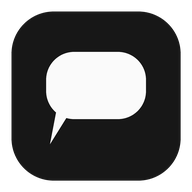
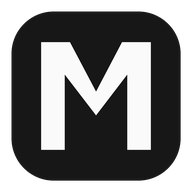
refactor: rename the app to MChat, and give it an M for a mark
The name is now MChat, in both the places a user sees it (the browser tab,
the home-screen icon, the manifest, the API title) and the places an operator
sees it (the offline bundle, the launcher, the installer, the startup
banner). The bundle is mchat-linux-x86_64.tar.gz and the launcher is mchat,
so `mchat` is the command.

The mark is an M, and it is drawn as a polygon rather than typeset from a
font. A font would make the icon depend on which fonts happened to be
installed on the machine that generated it, and the output would differ
between them; a path is the same everywhere, and it is the shape itself
rather than a rendering of it. The tile keeps the app's own two colours --
the header colour and the header-ink colour -- and there is still a maskable
variant for launchers that crop to an arbitrary shape.

A rename is easy to half-do: the titles get updated and the manifest does
not, or the launcher is renamed and the installer still looks for the old
one. Nothing crashes when that happens -- the build succeeds, the tests
pass, and the app is simply called two different things in two different
places. So the name is pinned in tests/test_app_name.py: every page title,
the manifest, the tab title, the FastAPI title, the startup banner, the
bundle, the launcher, the installer's symlink, and a sweep of the whole
source tree for the old name.

9 tests, each verified by re-injecting the old name in its place: 9/9
[…]

Changed region(s): [[0.1875, 0.2188, 0.8125, 0.7812]]

diff --git a/app/static/app.js b/app/static/app.js
@@ -36,7 +36,7 @@
   // sent to the server and the decision survives only as long as this tab
   // plus the one localStorage key below.
   let wantNotifications = false;
-  const BASE_TITLE = 'Chat room \u2014 Minimal Chat';
+  const BASE_TITLE = 'Chat room \u2014 MChat';
   // conversation key -> {button, badge, label}, so a badge update never
   // rebuilds the list and never steals focus from someone tabbing through it.
   let convRows = Object.create(null);

diff --git a/app/static/style.css b/app/static/style.css
@@ -1,5 +1,5 @@
 /* ==========================================================================
-   Minimal Chat — shadcn-style design system, zero dependencies.
+   MChat — shadcn-style design system, zero dependencies.
 
    The look follows shadcn/ui: a token layer plus component classes, with no
    framework and no build step. shadcn itself is React + Tailwind source code,

diff --git a/app/static/admin.html b/app/static/admin.html
@@ -3,7 +3,7 @@
 <head>
 <meta charset="UTF-8">
 <meta name="viewport" content="width=device-width, initial-scale=1.0">
-<title>Admin panel — Minimal Chat</title>
+<title>Admin panel — MChat</title>
 <link rel="manifest" href="/static/manifest.webmanifest">
 <meta name="theme-color" content="#171717">
 <meta name="apple-mobile-web-app-capable" content="yes">

diff --git a/app/static/chat.html b/app/static/chat.html
@@ -3,7 +3,7 @@
 <head>
 <meta charset="UTF-8">
 <meta name="viewport" content="width=device-width, initial-scale=1.0">
-<title>Chat room — Minimal Chat</title>
+<title>Chat room — MChat</title>
 <link rel="manifest" href="/static/manifest.webmanifest">
 <meta name="theme-color" content="#171717">
 <meta name="apple-mobile-web-app-capable" content="yes">

diff --git a/app/static/register.html b/app/static/register.html
@@ -3,7 +3,7 @@
 <head>
 <meta charset="UTF-8">
 <meta name="viewport" content="width=device-width, initial-scale=1.0">
-<title>Register — Minimal Chat</title>
+<title>Register — MChat</title>
 <link rel="manifest" href="/static/manifest.webmanifest">
 <meta name="theme-color" content="#171717">
 <meta name="apple-mobile-web-app-capable" content="yes">

diff --git a/app/static/login.html b/app/static/login.html
@@ -3,7 +3,7 @@
 <head>
 <meta charset="UTF-8">
 <meta name="viewport" content="width=device-width, initial-scale=1.0">
-<title>Login — Minimal Chat</title>
+<title>Login — MChat</title>
 <link rel="manifest" href="/static/manifest.webmanifest">
 <meta name="theme-color" content="#171717">
 <meta name="apple-mobile-web-app-capable" content="yes">

diff --git a/app/static/sw.js b/app/static/sw.js
@@ -1,4 +1,4 @@
-/* Minimal Chat service worker -- deliberately almost empty.
+/* MChat service worker -- deliberately almost empty.
  *
  * Its only job is to make the app installable: a registered service worker with
  * a fetch handler is what Chrome requires before it will offer "Install", and

diff --git a/tests/test_app_name.py b/tests/test_app_name.py
@@ -1,0 +1,161 @@
+"""The app has one name, and it is MChat.
+
+A rename is the kind of change that is easy to half-do: the page titles get
+updated and the manifest does not, or the launcher is renamed and the
+installer still looks for the old one. Nothing crashes when that happens --
+the build succeeds, the tests pass, and the app is simply called two
+different things in two different places.
+
+So the name is pinned here, in the places a user or an operator would see
+it: the browser tab, the home-screen icon, the FastAPI title, the offline
+bundle, and the launcher the installer links.
+"""
+import re
+import unittest
+from pathlib import Path
+
+ROOT = Path(__file__).resolve().parent.parent
+STATIC = ROOT / "app" / "static"
+
+# The old name, in the spellings it appeared in. If one of these comes back,
+# the rename was only half-done.
+#
+# "MinimalChat" is matched with a boundary, because one place is not the
+# app's name: MinimalChat-AUDIT/ is the directory the security-review notes
+# live in, it has that name on disk, and it is a working folder rather than
+# a brand.
+OLD_NAMES = ("Minimal Chat", "minimal chat", "chat-app",
+             "Chat app running at")
+OLD_CAMEL = re.compile(r"MinimalChat(?!-AUDIT)")
+
+
+class DisplayNameTests(unittest.TestCase):
+    """What a user sees."""
+
+    def test_the_manifest_is_named_mchat(self):
+        import json
+
+        manifest = json.loads(
+            (STATIC / "manifest.webmanifest").read_text(encoding="utf-8"))
+        self.assertEqual("MChat", manifest.get("name"),
+                         "the home-screen icon is labelled with the manifest's "
+                         f"name, which is {manifest.get('name')!r}")
+        self.assertTrue(manifest.get("short_name"),
+                        "the manifest has no short name, so the home-screen "
+                        "label would be the full one")
+
+    def test_every_page_title_carries_the_name(self):
+        for name in ("chat.html", "login.html", "register.html", "admin.html"):
+            with self.subTest(page=name):
+                html = (STATIC / name).read_text(encoding="utf-8")
+                m = re.search(r"<title>([^<]*)</title>", html)
+                self.assertIsNotNone(m, f"{name} has no title")
+                self.assertIn("MChat", m.group(1),
+                              f"the tab title is {m.group(1)!r}, which does "
+                              "not name the app")
+
+    def test_the_tab_title_after_a_message_keeps_the_name(self):
+        """The unread count is prepended to the title, so the name has to
+        survive that -- a title of "(3)" names nothing."""
+        js = (STATIC / "app.js").read_text(encoding="utf-8")
+        m = re.search(r"const BASE_TITLE = '([^']*)'", js)
+        self.assertIsNotNone(m, "BASE_TITLE is gone; the tab title is built "
+                                "somewhere else and this guard has to follow")
+        self.assertIn("MChat", m.group(1),
+                      f"the tab title is built from {m.group(1)!r}, which does "
+                      "not name the app")
+
+    def test_the_fastapi_title_names_the_app(self):
+        main = (ROOT / "app" / "main.py").read_text(encoding="utf-8")
+        self.assertIn('FastAPI(title="MChat"', main,
+                      "the API's own title does not name the app")
+
+    def test_the_startup_banner_names_the_app(self):
+        run = (ROOT / "run.py").read_text(encoding="utf-8")
+        self.assertIn("MChat running at", run,
+                      "the first line an operator sees does not name the app")
+
+
+class OperatorNameTests(unittest.TestCase):
+    """What an operator sees: the bundle and the launcher."""
+
+    def test_the_bundle_is_called_mchat(self):
+        build = (ROOT / "packaging" / "build.py").read_text(encoding="utf-8")
+        self.assertIn('"mchat-linux-x86_64.tar.gz"', build,
+                      "the bundle is not called mchat")
+        self.assertIn('STAGE = ROOT / "dist" / "mchat"', build,
+                      "the staging directory is not called mchat")
+
+    def test_the_launcher_is_called_mchat(self):
+        self.assertTrue((ROOT / "packaging" / "templates" / "mchat").is_file(),
+                        "there is no launcher called mchat")
+        self.assertFalse(
+            (ROOT / "packaging" / "templates" / "chat-app").exists(),
+            "the old chat-app launcher is still there; the two would both be "
+            "copied into the bundle and only one would be linked")
+
+    def test_the_installer_links_the_launcher_under_its_new_name(self):
+        """The link itself, not the name appearing somewhere in the file.
+
+        An earlier version of this asserted that the string "$BIN_DIR/mchat"
+        occurred anywhere in the script, which it does -- in the echo below
+        the link -- so a launcher linked under the wrong name still passed it.
+        """
+        install = (ROOT / "packaging" / "templates" / "install.sh").read_text(
+            encoding="utf-8")
+        link = next((l for l in install.splitlines()
+                     if l.strip().startswith("ln -sf")), None)
+        self.assertIsNotNone(link, "the installer creates no symlink")
+        self.assertIn('"$BIN_DIR/mchat"', link,
+                      f"the launcher is linked under a different name: {link!r}")
+        self.assertIn('"$DEST/mchat"', link,
+                      f"the launcher links the wrong source: {link!r}")
+        self.assertIn('.local/share/mchat', install,
+                      "the installer does not install into a directory called "
+                      "mchat")
+
+
+class NoOldNameTests(unittest.TestCase):
+    """Nothing anywhere still says the old name.
+
+    Checked across the source rather than in a list of known places, because
+    the half-done rename is exactly the case a list misses.
+    """
+
+    SKIP_DIRS = {".git", ".venv", "dist", "__pycache__", ".pytest_cache",
+                 "MinimalChat-AUDIT", "lib", "data"}
+
+    def _sources(self):
+        # This file names the old name on purpose -- it is the list of things
+        # that must not come back -- so it cannot scan itself.
+        self_path = Path(__file__).resolve()
+        for path in sorted(ROOT.rglob("*")):
+            if not path.is_file():
+                continue
+            if path.resolve() == self_path:
+                continue
+            if any(part in self.SKIP_DIRS for part in path.parts):
+                continue
+            if path.suffix in (".png", ".jpg", ".gz", ".pyc", ".db",
+                                ".pem", ".key", ".crt"):
+                continue
+            yield path
+
+    def test_no_source_file_still_carries_the_old_name(self):
+        offenders = []
+        for path in self._sources():
+            try:
+                text = path.read_text(encoding="utf-8")
+            except (UnicodeDecodeError, OSError):
+                continue
+            for old in OLD_NAMES:
+                if old in text:
+                    offenders.append(f"{path.relative_to(ROOT)}: {old!r}")
+            if OLD_CAMEL.search(text):
+                offenders.append(f"{path.relative_to(ROOT)}: 'MinimalChat'")
+        self.assertEqual([], offenders,
+                         "the old name is still in: " + "; ".join(offenders))
+
+
+if __name__ == "__main__":
+    unittest.main()

diff --git a/tools/make_icons.py b/tools/make_icons.py
@@ -12,10 +12,15 @@ only, and the script says so rather than pretending otherwise.
 
     python3 -m pip install Pillow
 
-The mark is the app's own shape: a rounded tile in the header colour
-(--header, #171717) with a speech bubble in the header-ink colour
-(--header-ink, #fafafa), plus a maskable variant whose mark sits inside the
-central 80% so a launcher that crops to any shape cannot cut it off.
+The mark is an "M" for MChat, drawn as a polygon rather than typeset from a
+font: a font would make the output depend on which fonts happened to be
+installed on the machine that generated it, and the icon would differ between
+them. A path is the same everywhere, and it is the shape itself rather than a
+rendering of it.
+
+The tile is in the header colour (--header, #171717) and the mark in the
+header-ink colour (--header-ink, #fafafa), the same two the app uses
+everywhere else.
 """
 import sys
 from pathlib import Path
@@ -32,15 +37,32 @@ FG = (0xFA, 0xFA, 0xFA)      # --header-ink
 SS = 8                        # supersample factor, downscaled at the end
 
 
-def bubble(draw, size, colour):
-    """A speech bubble: a rounded rectangle with a tail at the lower left."""
-    m = size * 0.24
-    x0, y0, x1, y1 = m, size * 0.27, size - m, size * 0.62
-    radius = (x1 - x0) * 0.28
-    draw.rounded_rectangle([x0, y0, x1, y1], radius=radius, fill=colour)
-    draw.polygon([(x0 + (x1 - x0) * 0.12, y1 - radius * 0.6),
-                  (x0 + (x1 - x0) * 0.30, y1 - radius * 0.6),
-                  (x0 + (x1 - x0) * 0.04, y1 + size * 0.13)], fill=colour)
+def m_polygon(u, v, w, h):
+    """An M in the box (u, v, w, h), as one closed polygon.
+
+    Two stems and a V: the V dips to 68% of the height and the stems are
+    18% wide, so the letter reads as a mark rather than as text.
+    """
+    def X(fx):
+        return u + fx * w
+
+    def Y(fy):
+        return v + fy * h
+
+    return [
+        (X(0.08), Y(1.00)),   # bottom-left
+        (X(0.08), Y(0.00)),   # top-left
+        (X(0.30), Y(0.00)),   # top-left inner
+        (X(0.50), Y(0.46)),   # centre notch
+        (X(0.70), Y(0.00)),   # top-right inner
+        (X(0.92), Y(0.00)),   # top-right
+        (X(0.92), Y(1.00)),   # bottom-right
+        (X(0.74), Y(1.00)),   # bottom-right inner
+        (X(0.74), Y(0.30)),   # right stem, inner, lower
+        (X(0.50), Y(0.68)),   # centre point
+        (X(0.26), Y(0.30)),   # left stem, inner, lower
+        (X(0.26), Y(1.00)),   # bottom-left inner
+    ]
 
 
 def render(size, maskable):
@@ -51,16 +73,14 @@ def render(size, maskable):
     draw = ImageDraw.Draw(img)
     if maskable:
         draw.rectangle([0, 0, s, s], fill=BG)
-        inner = s * 0.80
+        inner = s * 0.78
         off = (s - inner) / 2
-        tile = Image.new("RGBA", (int(inner), int(inner)), (0, 0, 0, 0))
-        bubble(ImageDraw.Draw(tile), inner, FG)
-        img.alpha_composite(tile, (int(off), int(off)))
+        draw.polygon(m_polygon(off, off, inner, inner), fill=FG)
     else:
         pad = s * 0.06
-        draw.rounded_rectangle([pad, pad, s - pad, s - pad],
-                               radius=s * 0.22, fill=BG)
-        bubble(draw, s, FG)
+        draw.rounded_rectangle([pad, pad, s - pad, s - pad], radius=s * 0.22,
+                               fill=BG)
+        draw.polygon(m_polygon(s * 0.16, s * 0.22, s * 0.68, s * 0.56), fill=FG)
     return img.resize((size, size), Image.LANCZOS)
 
 

diff --git a/packaging/build.py b/packaging/build.py
@@ -1,9 +1,9 @@
 """Build the offline Linux bundle.
 
 Copies the exact installed dependency closure (fastapi, uvicorn,
-cryptography, ...) from the current interpreter into chat-app/lib/,
+cryptography, ...) from the current interpreter into mchat/lib/,
 plus the app source and launcher scripts, then packs it as
-dist/chat-app-linux-x86_64.tar.gz.
+dist/mchat-linux-x86_64.tar.gz.
 
 Usage:  python3 packaging/build.py
 
@@ -25,7 +25,7 @@ import tarfile
 from pathlib import Path
 
 ROOT = Path(__file__).resolve().parent.parent
-STAGE = ROOT / "dist" / "chat-app"
+STAGE = ROOT / "dist" / "mchat"
 TEMPLATES = ROOT / "packaging" / "templates"
 
 TOP_LEVEL_DISTS = ["fastapi", "uvicorn", "cryptography", "websockets"]
@@ -247,15 +247,15 @@ def main() -> None:
                     ignore=shutil.ignore_patterns("__pycache__"))
     for f in ["run.py", "requirements.txt"]:
         shutil.copy2(ROOT / f, STAGE / f)
-    for f in ["chat-app", "install.sh", "README.txt"]:
+    for f in ["mchat", "install.sh", "README.txt"]:
         shutil.copy2(TEMPLATES / f, STAGE / f)
-    for exe in [STAGE / "chat-app", STAGE / "install.sh"]:
+    for exe in [STAGE / "mchat", STAGE / "install.sh"]:
         exe.chmod(exe.stat().st_mode | stat.S_IXUSR | stat.S_IXGRP | stat.S_IXOTH)
 
-    out = ROOT / "dist" / "chat-app-linux-x86_64.tar.gz"
+    out = ROOT / "dist" / "mchat-linux-x86_64.tar.gz"
     print(f"Packing {out} ...")
     with tarfile.open(out, "w:gz") as tar:
-        tar.add(STAGE, arcname="chat-app")
+        tar.add(STAGE, arcname="mchat")
     size_mb = out.stat().st_size / 1e6
     n_files = sum(1 for _ in STAGE.rglob("*") if _.is_file())
     print(f"Done: {out} ({size_mb:.1f} MB, {n_files} files)")

diff --git a/tests/test_packaging_build.py b/tests/test_packaging_build.py
@@ -186,7 +186,7 @@ class BuildWithoutPackagingTests(unittest.TestCase):
             self.assertIn("Done:", proc.stdout)
             # The isolated import check must have run and passed.
             self.assertIn("bundled imports OK", proc.stdout)
-            bundle = ROOT / "dist" / "chat-app-linux-x86_64.tar.gz"
+            bundle = ROOT / "dist" / "mchat-linux-x86_64.tar.gz"
             self.assertTrue(bundle.exists())
             self.assertGreater(bundle.stat().st_size, 1_000_000)
 
@@ -197,7 +197,7 @@ class BuildWithoutPackagingTests(unittest.TestCase):
         and unconditionally by fastapi; if the resolver loses a dependency the
         bundle still builds, so assert the file is actually in it.
         """
-        stage = ROOT / "dist" / "chat-app" / "lib"
+        stage = ROOT / "dist" / "mchat" / "lib"
         self.assertTrue(stage.is_dir(), "run the build first")
         self.assertTrue(
             (stage / "typing_extensions.py").is_file()

diff --git a/app/main.py b/app/main.py
@@ -93,7 +93,7 @@ async def lifespan(_app: FastAPI):
     yield
 
 
-app = FastAPI(title="Minimal Chat", lifespan=lifespan)
+app = FastAPI(title="MChat", lifespan=lifespan)
 # Middleware runs bottom-up: the LAST one added is the outermost. So the header
 # middleware goes on second, outside the channel gate -- otherwise the gate's
 # 403 (the answer to every cookie-auth /api call while the channel is on) would
